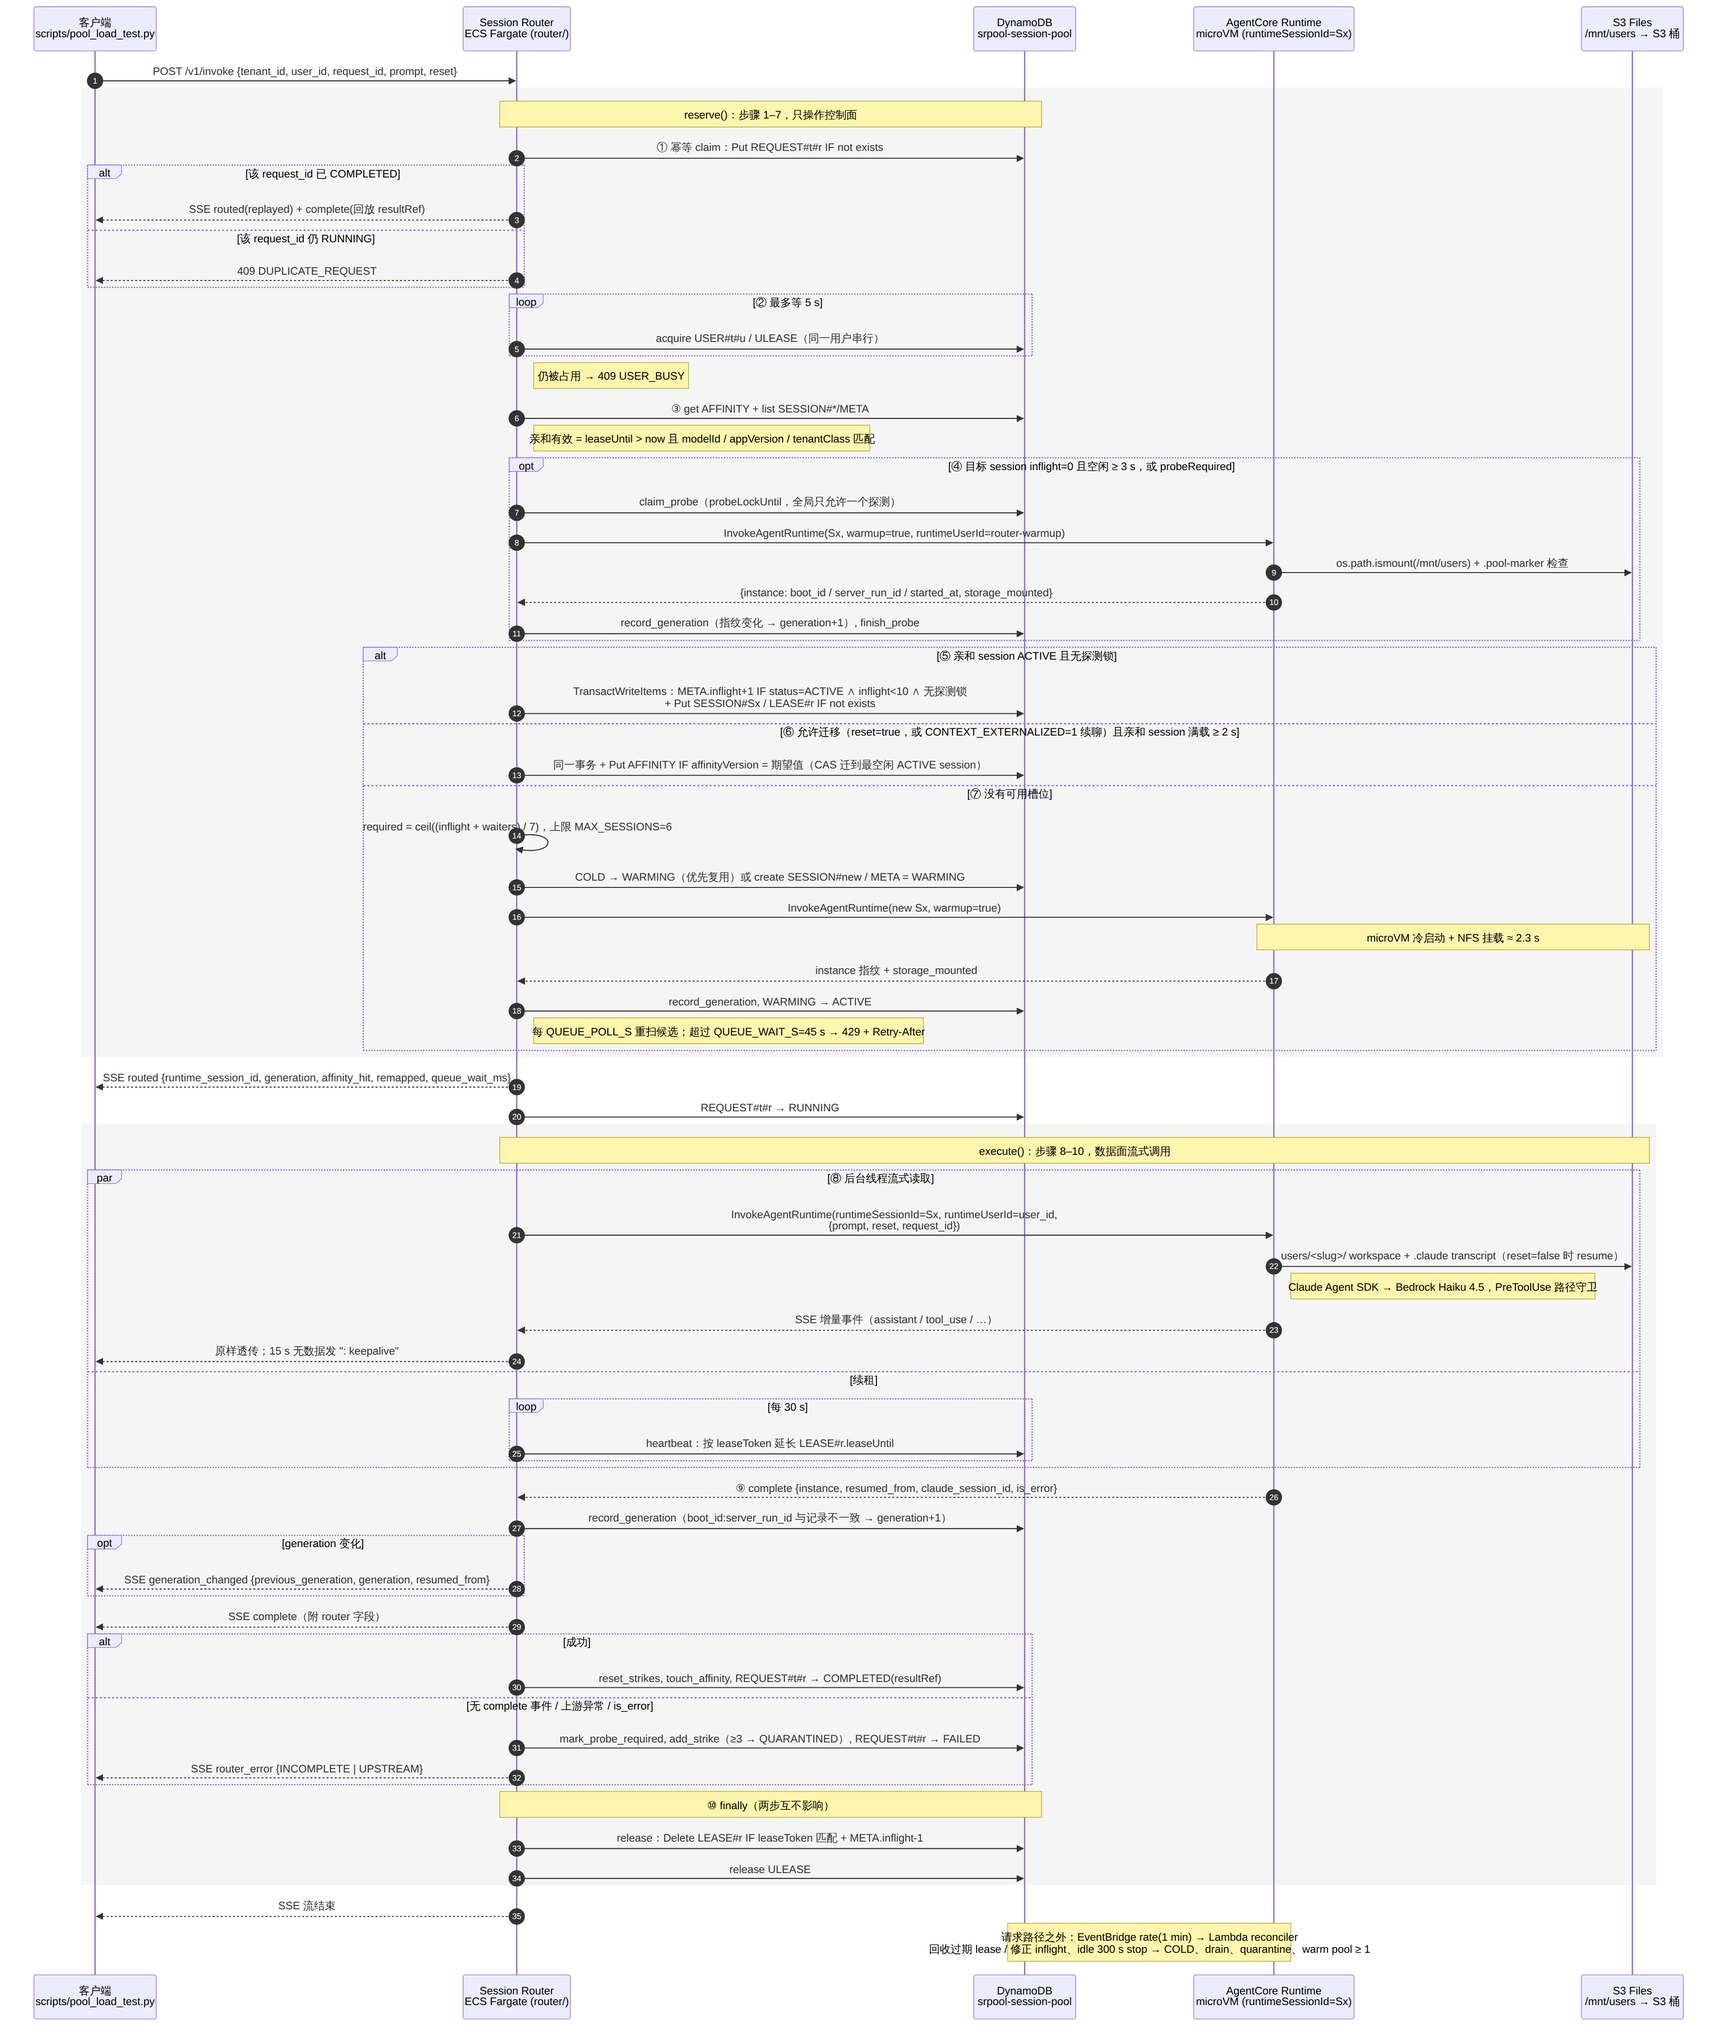
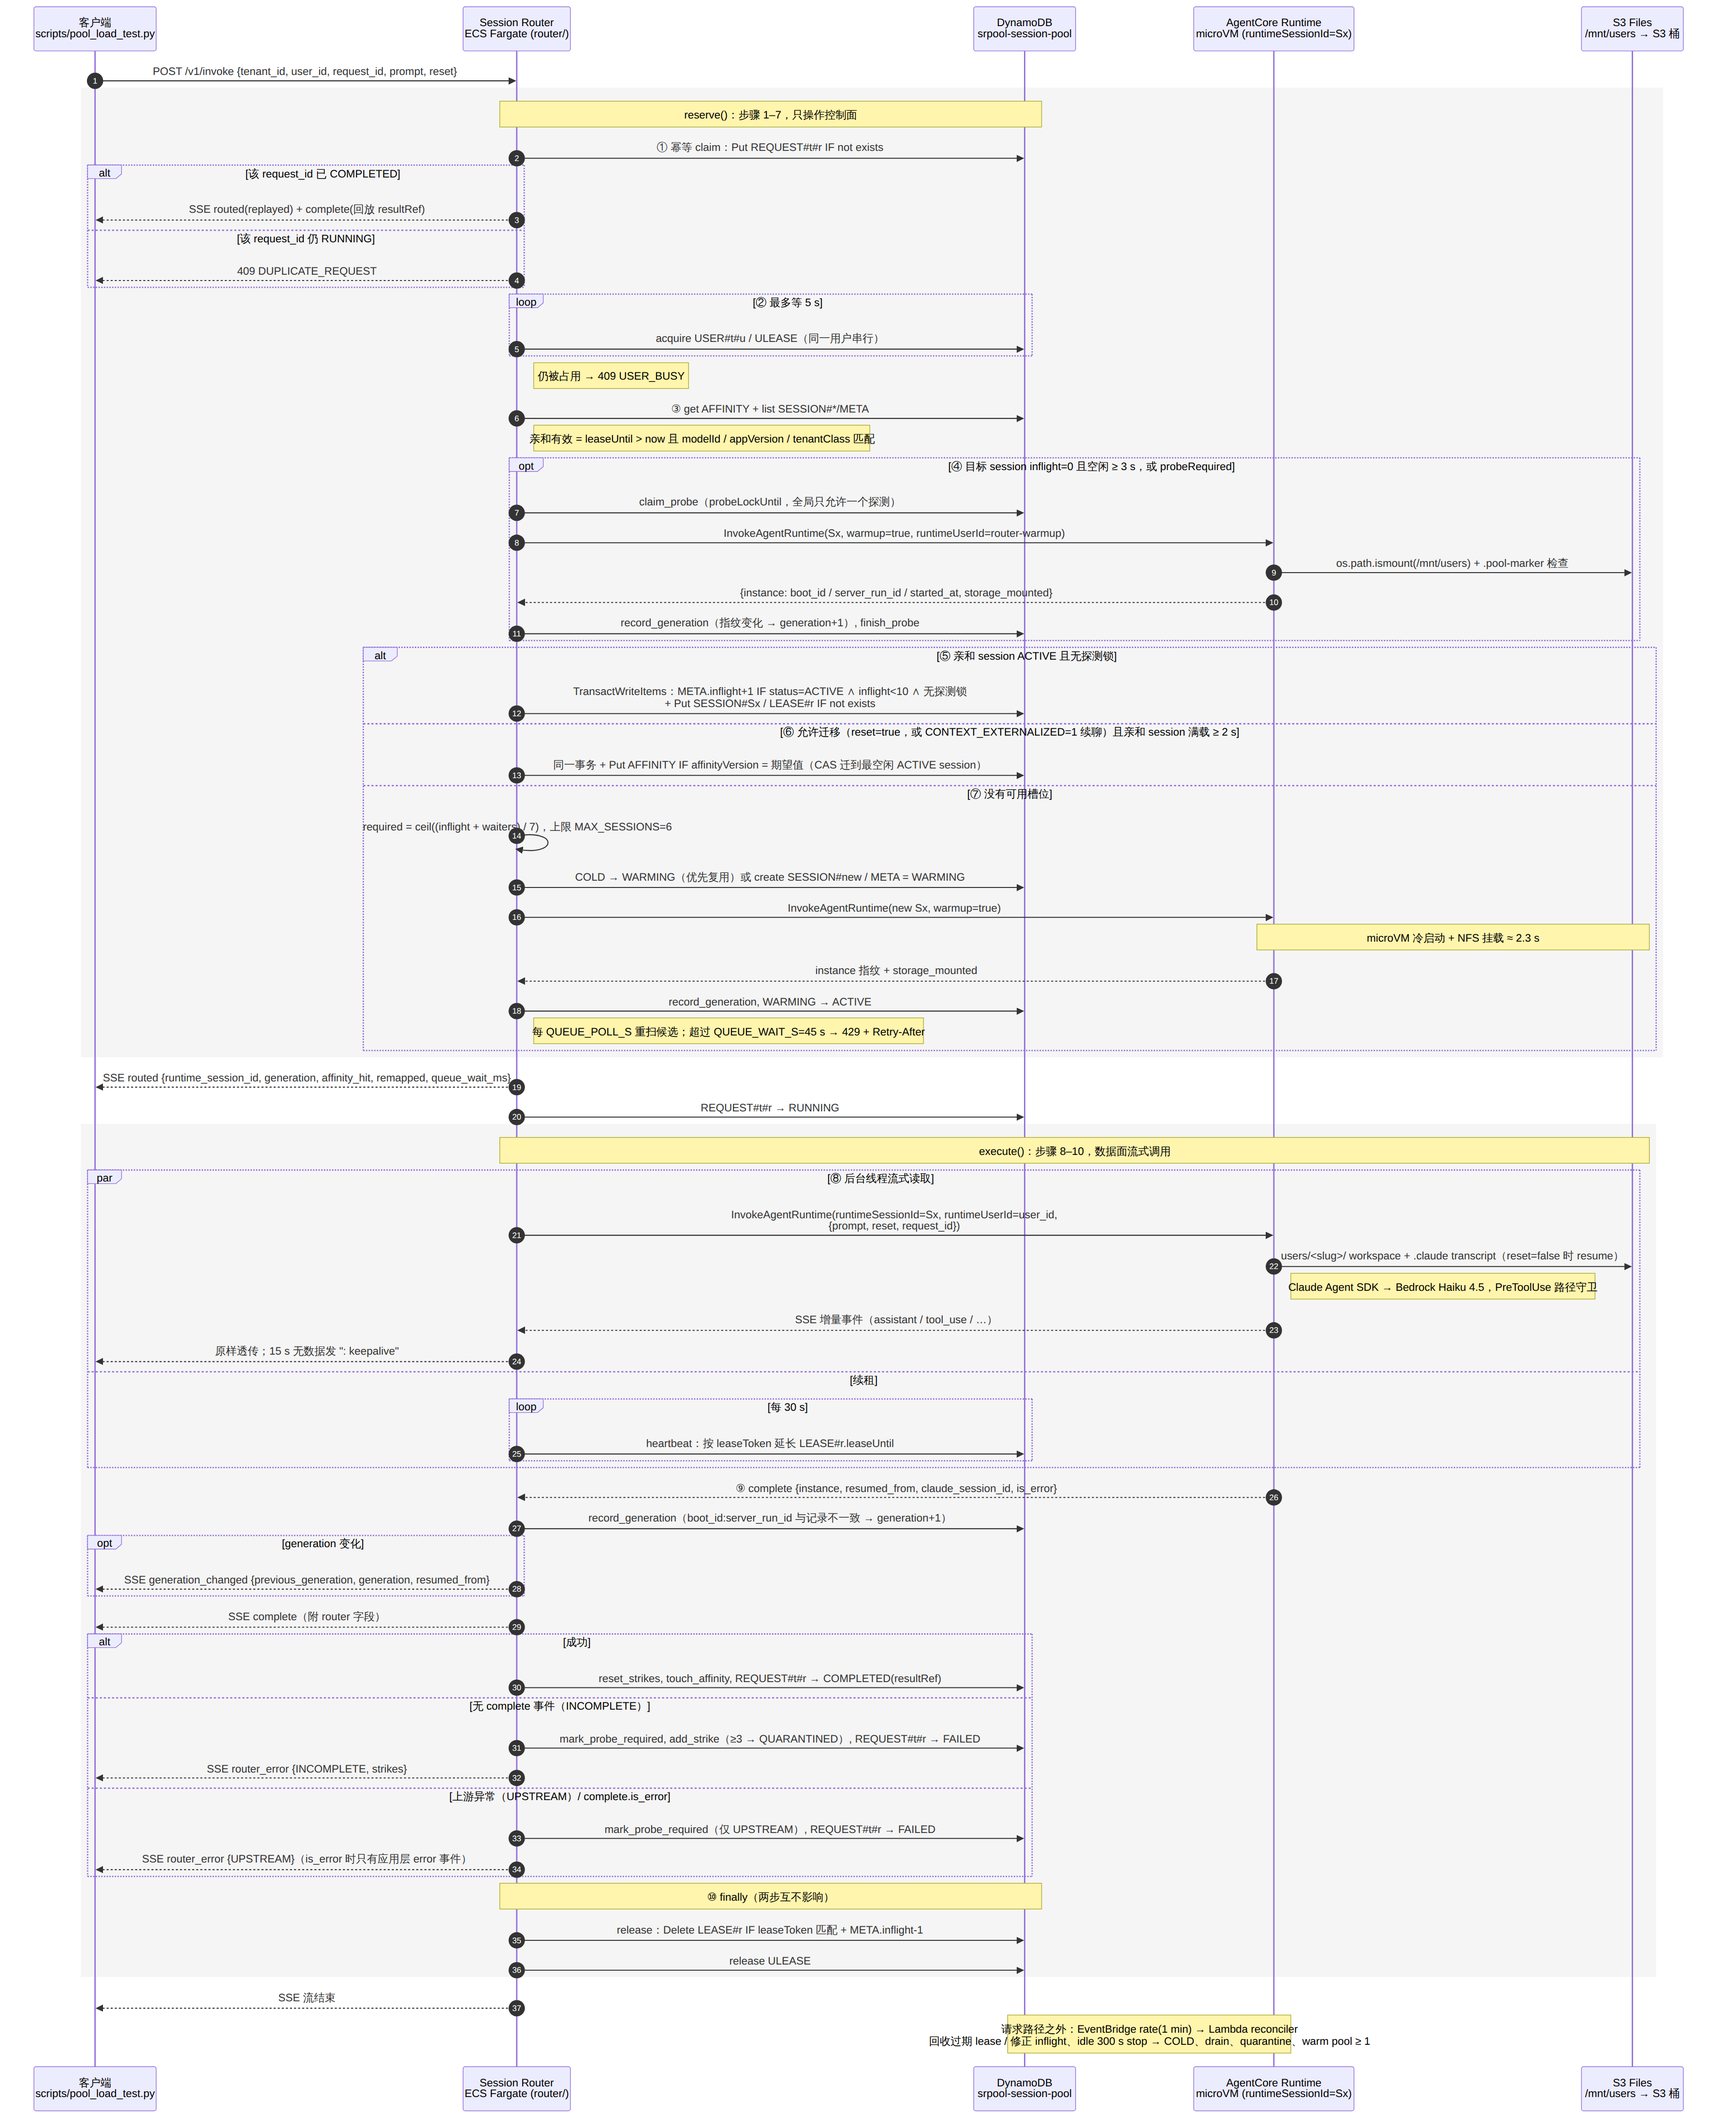
update

diff --git a/16-shared-runtime-microvm/POOL_DEMO.zh.md b/16-shared-runtime-microvm/POOL_DEMO.zh.md
@@ -162,9 +162,12 @@ sequenceDiagram
     R-->>C: SSE complete（附 router 字段）
     alt 成功
         R->>D: reset_strikes, touch_affinity, REQUEST#35;t#35;r → COMPLETED(resultRef)
-    else 无 complete 事件 / 上游异常 / is_error
+    else 无 complete 事件（INCOMPLETE）
         R->>D: mark_probe_required, add_strike（≥3 → QUARANTINED）, REQUEST#35;t#35;r → FAILED
-        R-->>C: SSE router_error {INCOMPLETE | UPSTREAM}
+        R-->>C: SSE router_error {INCOMPLETE, strikes}
+    else 上游异常（UPSTREAM）/ complete.is_error
+        R->>D: mark_probe_required（仅 UPSTREAM）, REQUEST#35;t#35;r → FAILED
+        R-->>C: SSE router_error {UPSTREAM}（is_error 时只有应用层 error 事件）
     end
 
     Note over R,D: ⑩ finally（两步互不影响）
@@ -359,3 +362,76 @@ generation 后才放行并发请求；acquire 事务的条件包含"无探测锁
 未实现（第二轮候选）：对话摘要写入 AgentCore Memory（当前靠 Claude 原生 transcript resume）；
 SQS FIFO 异步队列；HTTPS/ACM；Router 多副本下的 waiters 聚合（当前 waiters 为进程内计数，
 多副本时应改用 SQS 深度或 DynamoDB 计数）；按 tenant 拆分 S3 Files 访问点。
+
+## 7. FAQ
+
+### 7.1 "加 strike" 是什么含义？
+
+strike 是**给 session 记的一次失败计数**（借棒球"三振出局"的说法），存放在 `SESSION#s / META` 的整数字段
+`strikes` 上，用来判断某个 `runtimeSessionId` 背后的执行环境是否已经不健康，而不是凭单次失败就下结论。
+出处是架构文档 §15.3："对连续出现该错误的 session 增加 strike；达到阈值后 drain 或 quarantine；避免立即在
+同一高压 session 无限重试。"
+
+**什么时候 +1**（`store.add_strike`，DynamoDB `SET strikes = if_not_exists(strikes, 0) + 1`）：
+
+| 触发点 | 代码位置 |
+|---|---|
+| 请求的 SSE 流正常结束但没有 `complete` 事件（`INCOMPLETE`） | `scheduler.execute` |
+| warmup（COLD → WARMING → ACTIVE）失败或超时 | `scheduler._warm` |
+| 空闲探测 warmup 失败 | `scheduler._probe` |
+| reconciler 补 warm pool 时 warmup 失败 | `reconciler/handler.py` |
+
+`UPSTREAM`（`InvokeAgentRuntime` 调用本身抛异常）和应用层 `is_error` **不**加 strike：前者可能只是网络 / 409
+之类的瞬时问题，后者是 agent 业务层面的错误，都不能说明 microVM 坏了。
+
+**什么时候清零**（`store.reset_strikes`）：该 session 上任意一次请求成功拿到 `complete` 且非 `is_error`。
+因此 strike 衡量的是**连续**失败，中间成功一次就重新计数。
+
+**达到阈值的后果**（`QUARANTINE_STRIKES`，默认 3）：
+
+- Router 侧：加完 strike 后若 `strikes >= 3`，立刻把 session 置 `QUARANTINED`；warmup / 探测失败但未到
+  阈值则退回 `COLD`。
+- reconciler 侧：每分钟扫描，凡 `strikes >= 3` 且尚未 QUARANTINED 的都置 `QUARANTINED`，并调用
+  `StopRuntimeSession` 真正回收 microVM。
+- `QUARANTINED` 的 session 不再被任何 acquire 选中（事务条件要求 `status=ACTIVE`），也不会被扩容逻辑复用
+  （`pick_cold` 只挑 COLD）；亲和指向它的用户在 `remap_allowed()` 中被放行迁移到其他 ACTIVE session。
+  它会一直留在表里等运维处理（`pool_admin.py reset` 会连表一起清），当前实现没有自动"出院"逻辑。
+
+一句话：strike 是 session 级的健康信用分，连续 3 次疑似环境级失败就把这个 session 隔离，避免持续把用户
+流量送到一个已经坏掉的 microVM 上。
+
+### 7.2 客户端收到 `router_error {INCOMPLETE | UPSTREAM}` 之后会发生什么？
+
+`router_error` 只是"这一次请求失败"的终态通知，**Router 不会替客户端重试**。它把请求记为 `FAILED`、把该
+session 标成"下次准入前必须探测"，然后正常释放两把 lease。用户的亲和关系和 S3 Files 上的数据都不受影响。
+
+**客户端侧**：SSE 流里多一条 `{"event":"router_error","code":"INCOMPLETE"|"UPSTREAM",...}`，随后流正常结束
+（HTTP 状态仍为 200，因为响应头已发出），没有 `complete` 事件。`pool_load_test.py` 只把它记进
+`record["errors"]`，不自动重试。注意：**用同一个 `request_id` 重试会得到 409 `DUPLICATE_REQUEST`**——
+`reserve()` 只回放 `COMPLETED` 记录，其余状态（含 `FAILED`）一律 409，且该记录保留 `IDEMPOTENCY_TTL_S`
+（24 h）。重试必须换新的 `request_id`。
+
+**DynamoDB 侧**（两种 code 的差别）：
+
+| | `INCOMPLETE`（流正常结束但无 `complete`） | `UPSTREAM`（`InvokeAgentRuntime` 流抛异常） |
+|---|---|---|
+| `REQUEST#t#r` | `FAILED`，errorCode=`INCOMPLETE` | `FAILED`，errorCode=异常文本 |
+| `SESSION#s/META.probeRequired` | `true` | `true` |
+| `strikes` | `+1`；达到 3 时 Router 直接置 `QUARANTINED` | 不加 |
+| 用户 `AFFINITY` | 不动（`touch_affinity` 只在成功时调用） | 不动 |
+
+随后 `finally` 无条件执行：按 `leaseToken` 删 `LEASE#r` 并 `inflight-1`，再释放 `ULEASE`，两步各自
+try/except，不会互相拖累，因此不会泄漏容量，该用户可以立刻发下一个请求。
+
+**下一次请求到来时**：
+
+- 亲和仍指向原 session，但 `probe_needed()` 看到 `probeRequired=true`，先用探测锁做**一次** warmup；期间
+  该 session 对所有人不可准入（acquire 事务条件含"无探测锁"，候选列表也排除它）。
+  - 探测成功、指纹未变：microVM 还活着，只是那一次调用坏了；清掉 `probeRequired`，用户留在原 session。
+  - 探测成功、`boot_id:server_run_id` 变了：环境已被换掉，`generation+1`，新环境挂的仍是同一份 S3 Files，
+    用户从 transcript resume（即 §5.2 `--chaos-mode stop` 验证的路径）。
+  - 探测失败：`add_strike`，然后置 `COLD`（<3）或 `QUARANTINED`（≥3）。
+- 若 session 已不是 `ACTIVE`：COLD 会被就地 re-warm；QUARANTINED 时 `remap_allowed()` 返回 True，续聊
+  CAS 迁到最空闲的 ACTIVE session 并照常 resume（与 `drain` 路径相同）。
+- 后台 reconciler 每分钟也会扫描 `strikes >= 3` 的 session，置 `QUARANTINED` 并 `StopRuntimeSession`
+  真正回收 microVM。
